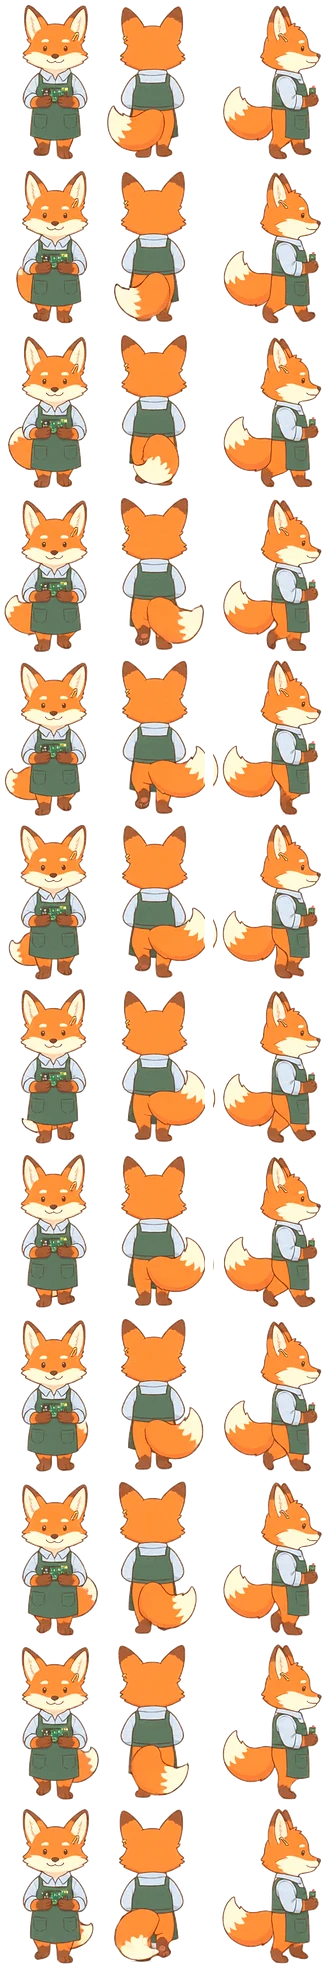
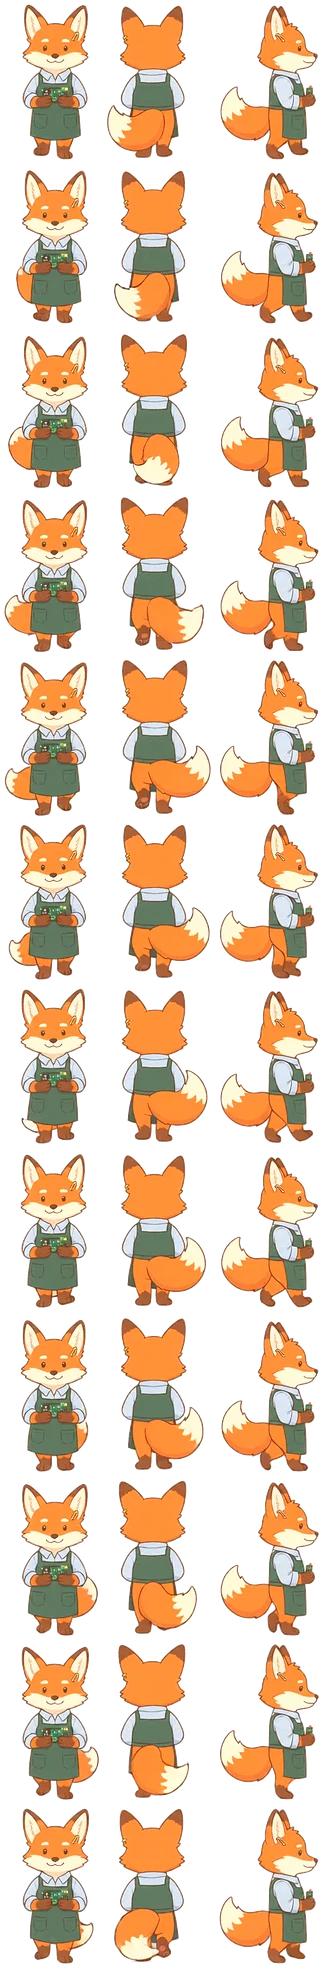
여우 선생님 걷기 그림에서 꼬리가 잘리고 조각이 붙던 문제 고치기
제미나이 걷기 GIF 에서 뒷모습 꼬리와 옆모습 꼬리가 맞닿는 장면(12장 중 3장)에서
앞·뒤·옆 나누기 시작점(다리 줄을 옆으로 넓혀 묶음)이 꼬리를 통해 한 덩어리가 되어,
뒷모습이 옆모습 칸으로 가거나 꼬리가 반듯하게 잘렸음.
시작점을 칸마다 다리 가운데 바로 옆 좁은 띠로 바꾸고 여우 걷기 그림만 다시 만듦.

diff --git a/js/data/teacher-sprites.js b/js/data/teacher-sprites.js
@@ -72,6 +72,11 @@ window.MP_TEACHER_SPRITES = {
  "fox": {
   "anim": {
    "frames": 12,
+   "idle": {
+    "down": 7,
+    "right": 0,
+    "up": 2
+   },
    "k": 0.5,
    "ms": 100,
    "rowH": 164,
@@ -86,17 +91,17 @@ window.MP_TEACHER_SPRITES = {
      156
     ],
     "right": [
-     213,
+     219,
      4,
-     109,
+     100,
      156,
-     67.0,
+     58.0,
      156
     ],
     "up": [
      107,
      4,
-     98,
+     104,
      154,
      43.0,
      154
@@ -450,4 +455,4 @@ window.MP_TEACHER_SPRITES = {
   }
  }
 };
-window.MP_TEACHER_VER = '20261120101637';
+window.MP_TEACHER_VER = '20261121111106';

diff --git a/tools/build_teachers.py b/tools/build_teachers.py
@@ -187,8 +187,17 @@ def split_views(a, cx):
     자기 몸에서 이어진 쪽으로 나뉨. 어느 몸통과도 이어지지 않은 조각은 가장 가까운 칸(아주 작은 점은 버림)."""
     h, w = a.shape
     L = np.zeros((h, w), np.int16)
-    for c, m in leg_seeds(a):
-        L[m] = int(np.argmin([abs(c - x) for x in cx])) + 1
+    # 시작점: 칸마다 다리 가운데(cx) 바로 옆 좁은 띠(칸 간격의 ±20%)의 아래 35%만.
+    # (예전처럼 다리 줄을 옆으로 넓혀 묶으면, 여우 꼬리처럼 두 사람 사이에서 맞닿는 것이 있을 때
+    #  두 사람이 한 덩어리가 되어 한쪽 몸 전체가 다른 칸으로 가 버림)
+    ys = np.where(a.any(axis=1))[0]
+    if len(ys):
+        y0 = int(ys.max() - (ys.max() - ys.min()) * 0.35)
+        win = 0.2 * (min(np.diff(sorted(cx))) if len(cx) > 1 else w)
+        for i, c in enumerate(cx):
+            x0, x1 = max(0, int(c - win)), min(w, int(c + win) + 1)
+            band = a[y0:, x0:x1]
+            L[y0:, x0:x1][band] = i + 1
     for _ in range(400):
         grown = ndimage.grey_dilation(L, size=(3, 3))
         add = (L == 0) & a & (grown > 0)
